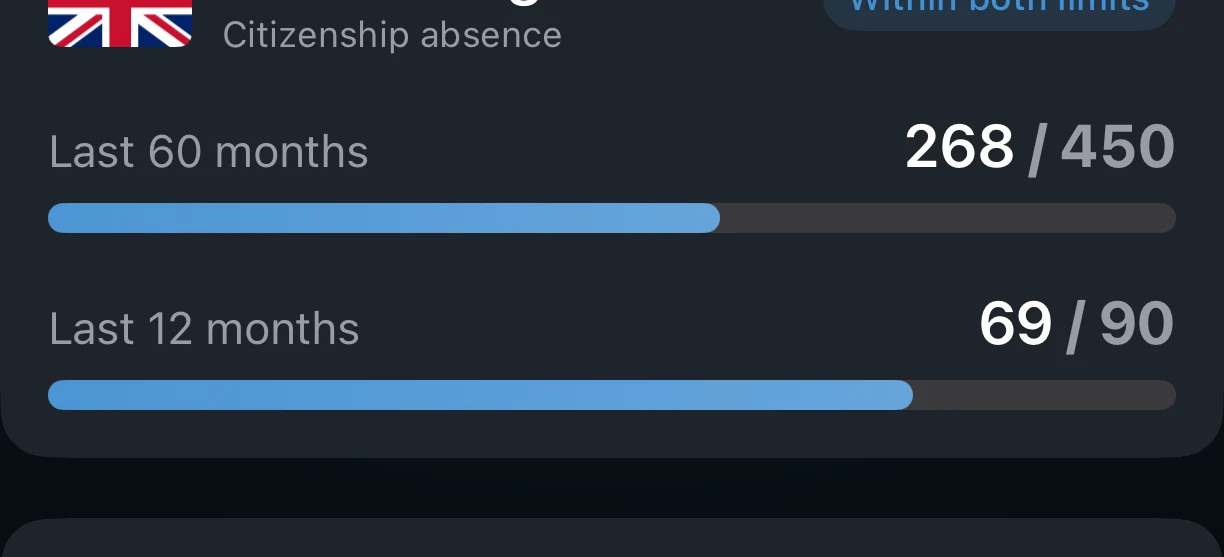
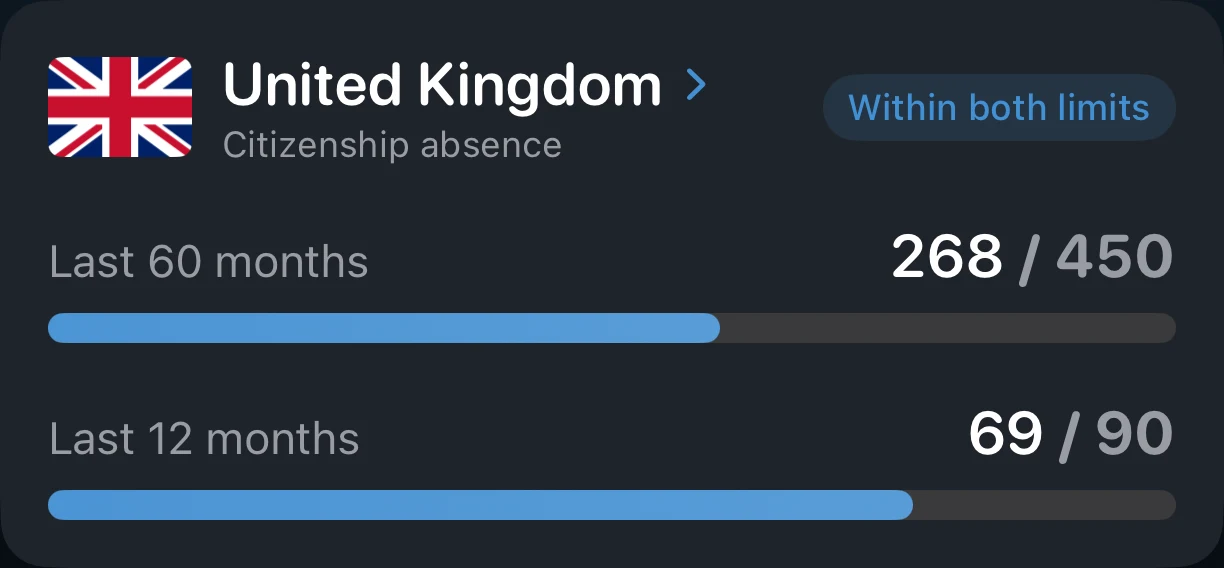
Recrop the homepage citizenship card to show the whole card
The crop started below the card's top edge, cutting off the tracker name
and status, and ended inside the next card. It now covers the card
exactly, in dark and light, and the image URLs carry a new version.

diff --git a/ru/index.html b/ru/index.html
@@ -278,8 +278,8 @@
             <span class="hx-case-label">Гражданство</span>
             <span class="hx-case-text">Следите за требованиями к присутствию и лимитами отсутствия для вашей заявки.</span>
             <span class="hx-case-shot">
-              <img class="shot-dark" src="/assets/home/v2/case-citizenship.webp?v=20261116a" alt="Карточка трекера гражданства в AtlasDays: подсчёт дней относительно лимита для натурализации" width="1224" height="557" loading="lazy" />
-              <img class="shot-light" src="/assets/home/v2/case-citizenship-light.webp?v=20261116a" alt="Карточка трекера гражданства в AtlasDays: подсчёт дней относительно лимита для натурализации" width="1224" height="557" loading="lazy" />
+              <img class="shot-dark" src="/assets/home/v2/case-citizenship.webp?v=20261121a" alt="Карточка трекера гражданства в AtlasDays: подсчёт дней относительно лимита для натурализации" width="1224" height="568" loading="lazy" />
+              <img class="shot-light" src="/assets/home/v2/case-citizenship-light.webp?v=20261121a" alt="Карточка трекера гражданства в AtlasDays: подсчёт дней относительно лимита для натурализации" width="1224" height="568" loading="lazy" />
             </span>
           </a>
           <a class="hx-case" href="/ru/travel-history">

diff --git a/_site-src/content/ru/pages/home.html b/_site-src/content/ru/pages/home.html
@@ -57,8 +57,8 @@
             <span class="hx-case-label">Гражданство</span>
             <span class="hx-case-text">Следите за требованиями к присутствию и лимитами отсутствия для вашей заявки.</span>
             <span class="hx-case-shot">
-              <img class="shot-dark" src="/assets/home/v2/case-citizenship.webp?v=20261116a" alt="Карточка трекера гражданства в AtlasDays: подсчёт дней относительно лимита для натурализации" width="1224" height="557" loading="lazy" />
-              <img class="shot-light" src="/assets/home/v2/case-citizenship-light.webp?v=20261116a" alt="Карточка трекера гражданства в AtlasDays: подсчёт дней относительно лимита для натурализации" width="1224" height="557" loading="lazy" />
+              <img class="shot-dark" src="/assets/home/v2/case-citizenship.webp?v=20261121a" alt="Карточка трекера гражданства в AtlasDays: подсчёт дней относительно лимита для натурализации" width="1224" height="568" loading="lazy" />
+              <img class="shot-light" src="/assets/home/v2/case-citizenship-light.webp?v=20261121a" alt="Карточка трекера гражданства в AtlasDays: подсчёт дней относительно лимита для натурализации" width="1224" height="568" loading="lazy" />
             </span>
           </a>
           <a class="hx-case" href="/ru/travel-history">

diff --git a/uk/index.html b/uk/index.html
@@ -278,8 +278,8 @@
             <span class="hx-case-label">Громадянство</span>
             <span class="hx-case-text">Стежте за вимогами до присутності й лімітами відсутності для вашої заяви.</span>
             <span class="hx-case-shot">
-              <img class="shot-dark" src="/assets/home/v2/case-citizenship.webp?v=20261116a" alt="Картка трекера громадянства AtlasDays: підрахунок днів до ліміту натуралізації" width="1224" height="557" loading="lazy" />
-              <img class="shot-light" src="/assets/home/v2/case-citizenship-light.webp?v=20261116a" alt="Картка трекера громадянства AtlasDays: підрахунок днів до ліміту натуралізації" width="1224" height="557" loading="lazy" />
+              <img class="shot-dark" src="/assets/home/v2/case-citizenship.webp?v=20261121a" alt="Картка трекера громадянства AtlasDays: підрахунок днів до ліміту натуралізації" width="1224" height="568" loading="lazy" />
+              <img class="shot-light" src="/assets/home/v2/case-citizenship-light.webp?v=20261121a" alt="Картка трекера громадянства AtlasDays: підрахунок днів до ліміту натуралізації" width="1224" height="568" loading="lazy" />
             </span>
           </a>
           <a class="hx-case" href="/uk/travel-history">

diff --git a/_site-src/content/uk/pages/home.html b/_site-src/content/uk/pages/home.html
@@ -57,8 +57,8 @@
             <span class="hx-case-label">Громадянство</span>
             <span class="hx-case-text">Стежте за вимогами до присутності й лімітами відсутності для вашої заяви.</span>
             <span class="hx-case-shot">
-              <img class="shot-dark" src="/assets/home/v2/case-citizenship.webp?v=20261116a" alt="Картка трекера громадянства AtlasDays: підрахунок днів до ліміту натуралізації" width="1224" height="557" loading="lazy" />
-              <img class="shot-light" src="/assets/home/v2/case-citizenship-light.webp?v=20261116a" alt="Картка трекера громадянства AtlasDays: підрахунок днів до ліміту натуралізації" width="1224" height="557" loading="lazy" />
+              <img class="shot-dark" src="/assets/home/v2/case-citizenship.webp?v=20261121a" alt="Картка трекера громадянства AtlasDays: підрахунок днів до ліміту натуралізації" width="1224" height="568" loading="lazy" />
+              <img class="shot-light" src="/assets/home/v2/case-citizenship-light.webp?v=20261121a" alt="Картка трекера громадянства AtlasDays: підрахунок днів до ліміту натуралізації" width="1224" height="568" loading="lazy" />
             </span>
           </a>
           <a class="hx-case" href="/uk/travel-history">

diff --git a/fr/index.html b/fr/index.html
@@ -278,8 +278,8 @@
             <span class="hx-case-label">Citoyenneté</span>
             <span class="hx-case-text">Suivez les conditions de présence et les limites d’absence liées à votre demande.</span>
             <span class="hx-case-shot">
-              <img class="shot-dark" src="/assets/home/v2/case-citizenship.webp?v=20261116a" alt="Une carte de suivi de citoyenneté dans AtlasDays, comptant les jours par rapport à une limite de naturalisation" width="1224" height="557" loading="lazy" />
-              <img class="shot-light" src="/assets/home/v2/case-citizenship-light.webp?v=20261116a" alt="Une carte de suivi de citoyenneté dans AtlasDays, comptant les jours par rapport à une limite de naturalisation" width="1224" height="557" loading="lazy" />
+              <img class="shot-dark" src="/assets/home/v2/case-citizenship.webp?v=20261121a" alt="Une carte de suivi de citoyenneté dans AtlasDays, comptant les jours par rapport à une limite de naturalisation" width="1224" height="568" loading="lazy" />
+              <img class="shot-light" src="/assets/home/v2/case-citizenship-light.webp?v=20261121a" alt="Une carte de suivi de citoyenneté dans AtlasDays, comptant les jours par rapport à une limite de naturalisation" width="1224" height="568" loading="lazy" />
             </span>
           </a>
           <a class="hx-case" href="/fr/travel-history">

diff --git a/_site-src/content/fr/pages/home.html b/_site-src/content/fr/pages/home.html
@@ -57,8 +57,8 @@
             <span class="hx-case-label">Citoyenneté</span>
             <span class="hx-case-text">Suivez les conditions de présence et les limites d’absence liées à votre demande.</span>
             <span class="hx-case-shot">
-              <img class="shot-dark" src="/assets/home/v2/case-citizenship.webp?v=20261116a" alt="Une carte de suivi de citoyenneté dans AtlasDays, comptant les jours par rapport à une limite de naturalisation" width="1224" height="557" loading="lazy" />
-              <img class="shot-light" src="/assets/home/v2/case-citizenship-light.webp?v=20261116a" alt="Une carte de suivi de citoyenneté dans AtlasDays, comptant les jours par rapport à une limite de naturalisation" width="1224" height="557" loading="lazy" />
+              <img class="shot-dark" src="/assets/home/v2/case-citizenship.webp?v=20261121a" alt="Une carte de suivi de citoyenneté dans AtlasDays, comptant les jours par rapport à une limite de naturalisation" width="1224" height="568" loading="lazy" />
+              <img class="shot-light" src="/assets/home/v2/case-citizenship-light.webp?v=20261121a" alt="Une carte de suivi de citoyenneté dans AtlasDays, comptant les jours par rapport à une limite de naturalisation" width="1224" height="568" loading="lazy" />
             </span>
           </a>
           <a class="hx-case" href="/fr/travel-history">

diff --git a/it/index.html b/it/index.html
@@ -278,8 +278,8 @@
             <span class="hx-case-label">Cittadinanza</span>
             <span class="hx-case-text">Segui i requisiti di presenza e i limiti di assenza della tua domanda.</span>
             <span class="hx-case-shot">
-              <img class="shot-dark" src="/assets/home/v2/case-citizenship.webp?v=20261116a" alt="Scheda di un tracker di cittadinanza di AtlasDays con conteggio dei giorni rispetto a un limite di naturalizzazione" width="1224" height="557" loading="lazy" />
-              <img class="shot-light" src="/assets/home/v2/case-citizenship-light.webp?v=20261116a" alt="Scheda di un tracker di cittadinanza di AtlasDays con conteggio dei giorni rispetto a un limite di naturalizzazione" width="1224" height="557" loading="lazy" />
+              <img class="shot-dark" src="/assets/home/v2/case-citizenship.webp?v=20261121a" alt="Scheda di un tracker di cittadinanza di AtlasDays con conteggio dei giorni rispetto a un limite di naturalizzazione" width="1224" height="568" loading="lazy" />
+              <img class="shot-light" src="/assets/home/v2/case-citizenship-light.webp?v=20261121a" alt="Scheda di un tracker di cittadinanza di AtlasDays con conteggio dei giorni rispetto a un limite di naturalizzazione" width="1224" height="568" loading="lazy" />
             </span>
           </a>
           <a class="hx-case" href="/it/travel-history">

diff --git a/_site-src/content/it/pages/home.html b/_site-src/content/it/pages/home.html
@@ -57,8 +57,8 @@
             <span class="hx-case-label">Cittadinanza</span>
             <span class="hx-case-text">Segui i requisiti di presenza e i limiti di assenza della tua domanda.</span>
             <span class="hx-case-shot">
-              <img class="shot-dark" src="/assets/home/v2/case-citizenship.webp?v=20261116a" alt="Scheda di un tracker di cittadinanza di AtlasDays con conteggio dei giorni rispetto a un limite di naturalizzazione" width="1224" height="557" loading="lazy" />
-              <img class="shot-light" src="/assets/home/v2/case-citizenship-light.webp?v=20261116a" alt="Scheda di un tracker di cittadinanza di AtlasDays con conteggio dei giorni rispetto a un limite di naturalizzazione" width="1224" height="557" loading="lazy" />
+              <img class="shot-dark" src="/assets/home/v2/case-citizenship.webp?v=20261121a" alt="Scheda di un tracker di cittadinanza di AtlasDays con conteggio dei giorni rispetto a un limite di naturalizzazione" width="1224" height="568" loading="lazy" />
+              <img class="shot-light" src="/assets/home/v2/case-citizenship-light.webp?v=20261121a" alt="Scheda di un tracker di cittadinanza di AtlasDays con conteggio dei giorni rispetto a un limite di naturalizzazione" width="1224" height="568" loading="lazy" />
             </span>
           </a>
           <a class="hx-case" href="/it/travel-history">

diff --git a/es/index.html b/es/index.html
@@ -278,8 +278,8 @@
             <span class="hx-case-label">Nacionalidad</span>
             <span class="hx-case-text">Controla los requisitos de presencia y los límites de ausencia de tu solicitud.</span>
             <span class="hx-case-shot">
-              <img class="shot-dark" src="/assets/home/v2/case-citizenship.webp?v=20261116a" alt="Tarjeta de un control de nacionalidad de AtlasDays que cuenta los días frente a un límite de naturalización" width="1224" height="557" loading="lazy" />
-              <img class="shot-light" src="/assets/home/v2/case-citizenship-light.webp?v=20261116a" alt="Tarjeta de un control de nacionalidad de AtlasDays que cuenta los días frente a un límite de naturalización" width="1224" height="557" loading="lazy" />
+              <img class="shot-dark" src="/assets/home/v2/case-citizenship.webp?v=20261121a" alt="Tarjeta de un control de nacionalidad de AtlasDays que cuenta los días frente a un límite de naturalización" width="1224" height="568" loading="lazy" />
+              <img class="shot-light" src="/assets/home/v2/case-citizenship-light.webp?v=20261121a" alt="Tarjeta de un control de nacionalidad de AtlasDays que cuenta los días frente a un límite de naturalización" width="1224" height="568" loading="lazy" />
             </span>
           </a>
           <a class="hx-case" href="/es/travel-history">

diff --git a/_site-src/content/es/pages/home.html b/_site-src/content/es/pages/home.html
@@ -57,8 +57,8 @@
             <span class="hx-case-label">Nacionalidad</span>
             <span class="hx-case-text">Controla los requisitos de presencia y los límites de ausencia de tu solicitud.</span>
             <span class="hx-case-shot">
-              <img class="shot-dark" src="/assets/home/v2/case-citizenship.webp?v=20261116a" alt="Tarjeta de un control de nacionalidad de AtlasDays que cuenta los días frente a un límite de naturalización" width="1224" height="557" loading="lazy" />
-              <img class="shot-light" src="/assets/home/v2/case-citizenship-light.webp?v=20261116a" alt="Tarjeta de un control de nacionalidad de AtlasDays que cuenta los días frente a un límite de naturalización" width="1224" height="557" loading="lazy" />
+              <img class="shot-dark" src="/assets/home/v2/case-citizenship.webp?v=20261121a" alt="Tarjeta de un control de nacionalidad de AtlasDays que cuenta los días frente a un límite de naturalización" width="1224" height="568" loading="lazy" />
+              <img class="shot-light" src="/assets/home/v2/case-citizenship-light.webp?v=20261121a" alt="Tarjeta de un control de nacionalidad de AtlasDays que cuenta los días frente a un límite de naturalización" width="1224" height="568" loading="lazy" />
             </span>
           </a>
           <a class="hx-case" href="/es/travel-history">

diff --git a/de/index.html b/de/index.html
@@ -278,8 +278,8 @@
             <span class="hx-case-label">Einbürgerung</span>
             <span class="hx-case-text">Verfolge die Anwesenheitsvorgaben und Abwesenheitslimits für deinen Antrag.</span>
             <span class="hx-case-shot">
-              <img class="shot-dark" src="/assets/home/v2/case-citizenship.webp?v=20261116a" alt="Eine AtlasDays-Trackerkarte für die Einbürgerung, die Tage gegen ein Limit für die Einbürgerung zählt" width="1224" height="557" loading="lazy" />
-              <img class="shot-light" src="/assets/home/v2/case-citizenship-light.webp?v=20261116a" alt="Eine AtlasDays-Trackerkarte für die Einbürgerung, die Tage gegen ein Limit für die Einbürgerung zählt" width="1224" height="557" loading="lazy" />
+              <img class="shot-dark" src="/assets/home/v2/case-citizenship.webp?v=20261121a" alt="Eine AtlasDays-Trackerkarte für die Einbürgerung, die Tage gegen ein Limit für die Einbürgerung zählt" width="1224" height="568" loading="lazy" />
+              <img class="shot-light" src="/assets/home/v2/case-citizenship-light.webp?v=20261121a" alt="Eine AtlasDays-Trackerkarte für die Einbürgerung, die Tage gegen ein Limit für die Einbürgerung zählt" width="1224" height="568" loading="lazy" />
             </span>
           </a>
           <a class="hx-case" href="/de/travel-history">

diff --git a/_site-src/content/de/pages/home.html b/_site-src/content/de/pages/home.html
@@ -57,8 +57,8 @@
             <span class="hx-case-label">Einbürgerung</span>
             <span class="hx-case-text">Verfolge die Anwesenheitsvorgaben und Abwesenheitslimits für deinen Antrag.</span>
             <span class="hx-case-shot">
-              <img class="shot-dark" src="/assets/home/v2/case-citizenship.webp?v=20261116a" alt="Eine AtlasDays-Trackerkarte für die Einbürgerung, die Tage gegen ein Limit für die Einbürgerung zählt" width="1224" height="557" loading="lazy" />
-              <img class="shot-light" src="/assets/home/v2/case-citizenship-light.webp?v=20261116a" alt="Eine AtlasDays-Trackerkarte für die Einbürgerung, die Tage gegen ein Limit für die Einbürgerung zählt" width="1224" height="557" loading="lazy" />
+              <img class="shot-dark" src="/assets/home/v2/case-citizenship.webp?v=20261121a" alt="Eine AtlasDays-Trackerkarte für die Einbürgerung, die Tage gegen ein Limit für die Einbürgerung zählt" width="1224" height="568" loading="lazy" />
+              <img class="shot-light" src="/assets/home/v2/case-citizenship-light.webp?v=20261121a" alt="Eine AtlasDays-Trackerkarte für die Einbürgerung, die Tage gegen ein Limit für die Einbürgerung zählt" width="1224" height="568" loading="lazy" />
             </span>
           </a>
           <a class="hx-case" href="/de/travel-history">
